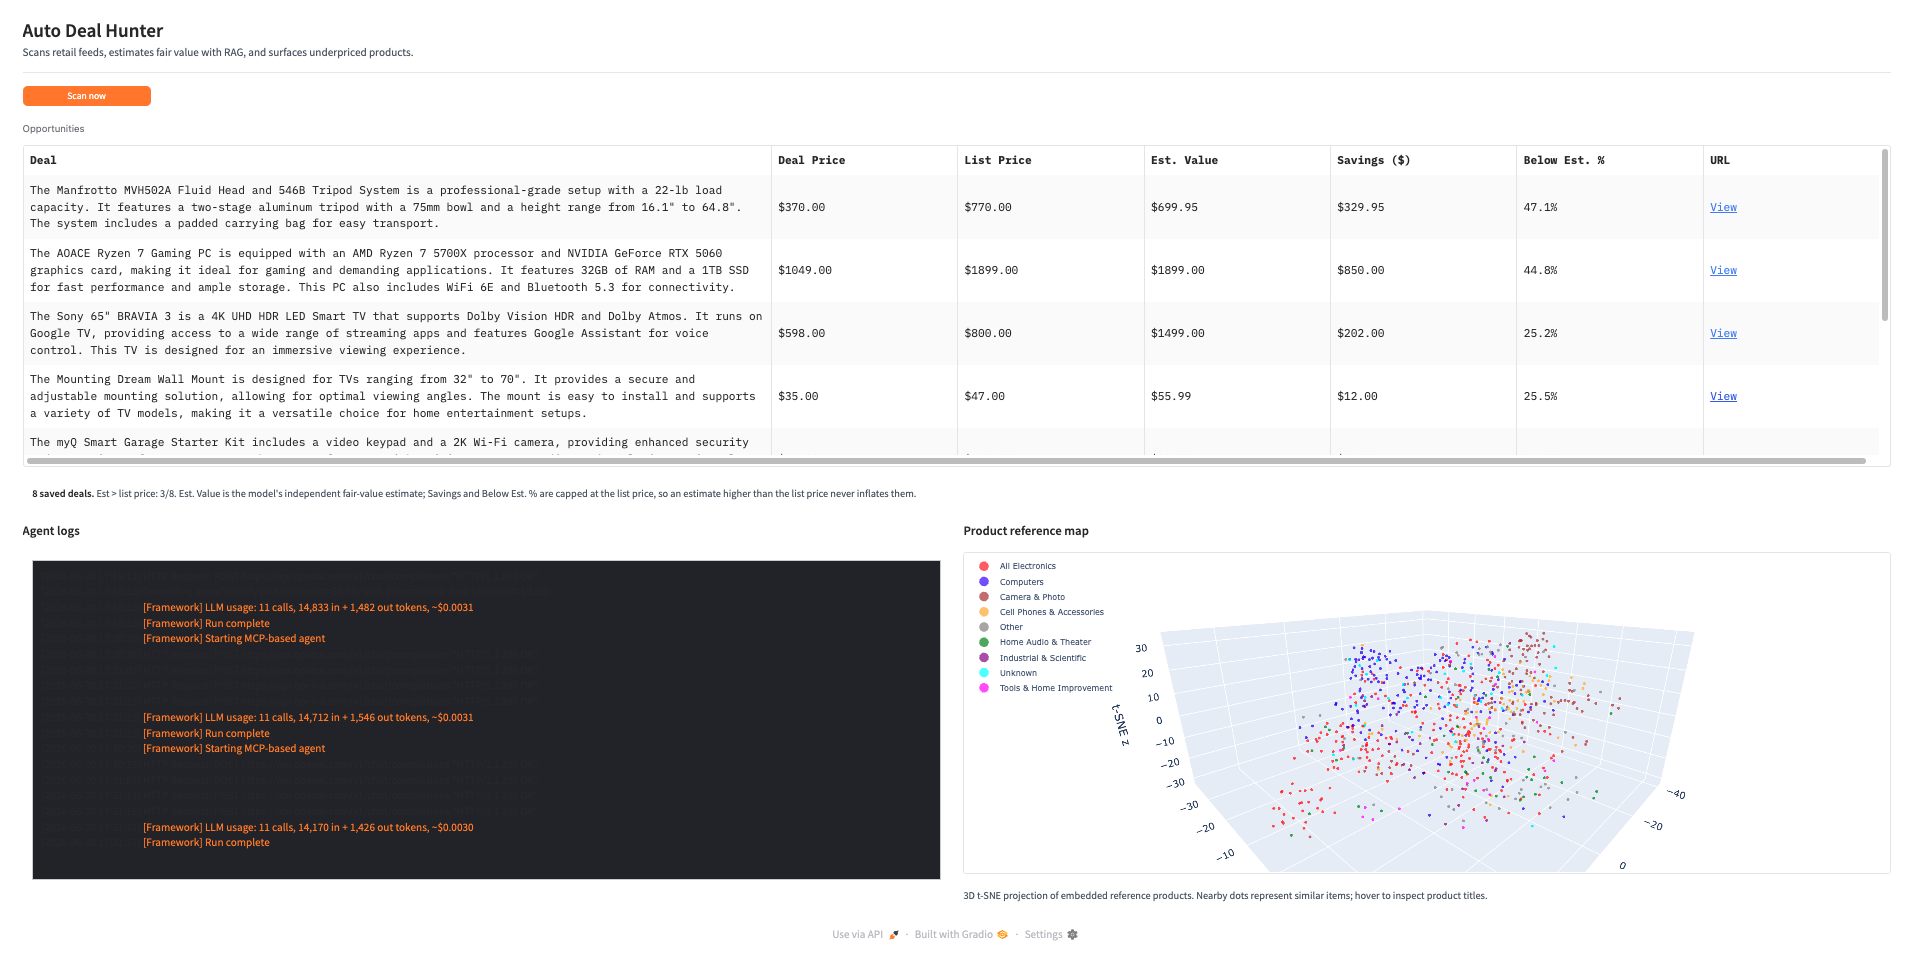
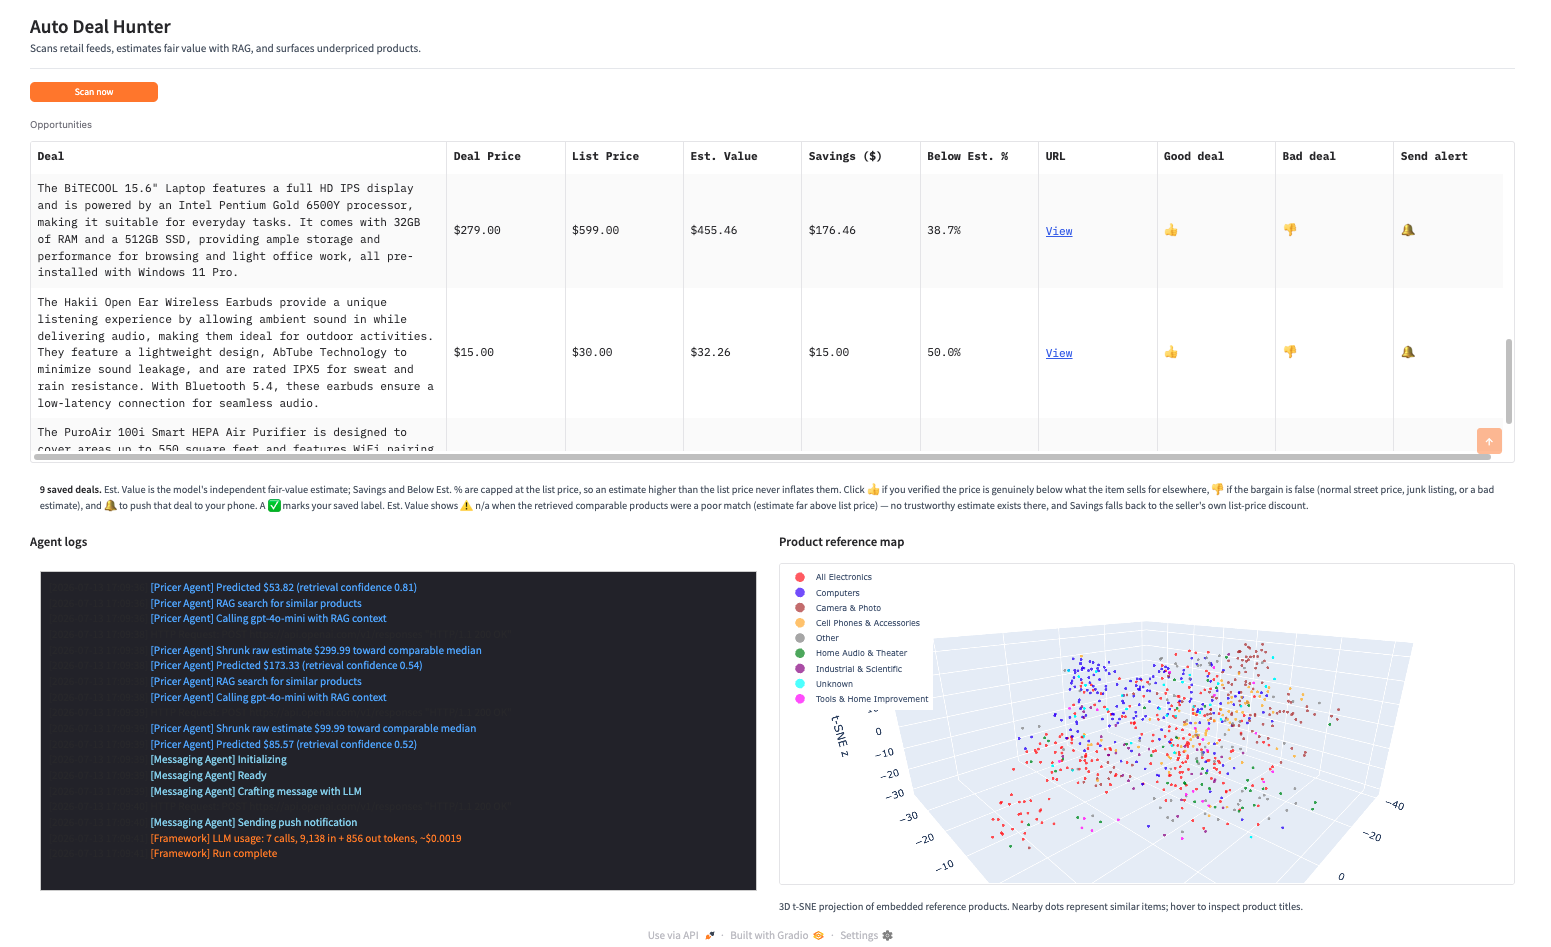
docs(readme): polish README, drop QUALITY.md, refresh demo screenshot
QUALITY.md's checklist is fully implemented (see the harden commit); drop
it rather than let a one-time review doc go stale.

diff --git a/README.md b/README.md
@@ -1,12 +1,20 @@
 # Auto Deal Hunter
 
-Auto Deal Hunter is a Python app that scans retail deal feeds, estimates a product's market value via **RAG** over an independent Amazon reference set, and surfaces deals whose current price appears meaningfully below that estimate. Its scan/estimate/notify capabilities are also exposed as MCP tools for reuse by any MCP client.
+Auto Deal Hunter watches retail deal feeds, estimates whether each product is actually underpriced, and surfaces the best opportunities in a local dashboard with optional phone notifications.
+
+Under the hood, it uses **RAG** over an independent Amazon reference set for fair-value estimates, applies deterministic scoring and list-price guardrails to reduce false bargains, and exposes scan/estimate/notify capabilities as MCP tools for reuse by MCP clients.
 
 ## Demo
 
+Gradio dashboard:
+
 ![Gradio demo](docs/assets/gradio-demo.png)
 
-The Gradio app shows saved opportunities, live agent logs, and a 3D projection of the embedded product reference library.
+Telegram notification:
+
+![Telegram deal notification](docs/assets/telegram-notification-demo.jpg)
+
+The Gradio app shows saved opportunities, live agent logs, and a 3D projection of the embedded product reference library. Telegram notifications deliver the selected deal to your phone.
 
 ## Features
 
@@ -15,7 +23,7 @@ The Gradio app shows saved opportunities, live agent logs, and a 3D projection o
 - **Cost-aware** — Logs LLM token usage and an estimated dollar cost per run.
 - **Guardrail** — Caps reported savings at the seller's list price when a list price is available, reducing false bargains from high model estimates.
 - **Identity-aware** — Detects multi-packs, bundles, and subscriptions so a listing isn't mis-valued against single-unit comparables: multi-packs are rebased to a per-unit price (on both the deal and its comparables), while bundles and subscriptions are skipped.
-- **Notify** — Sends optional Pushover notifications for compelling deals. Estimates built on a
+- **Notify** — Sends optional Telegram (or legacy Pushover) notifications for compelling deals. Estimates built on a
   weak RAG match (no close comparable in the vector store) fall below `RAG_MIN_CONFIDENCE` and are
   still saved but held back from notification, cutting false bargains at the source.
 - **Gradio UI** — Displays the opportunity table, guardrail summary, logs, and a 3D t-SNE map of the vector store.
@@ -26,7 +34,7 @@ The Gradio app shows saved opportunities, live agent logs, and a 3D projection o
 - OpenAI API key for the agent loop and price estimator (or an OpenAI-compatible endpoint — see
   [`OPENAI_BASE_URL`](#environment-variables))
 - [Hugging Face](https://huggingface.co/) access for downloading the McAuley-Lab dataset
-- Optional: Pushover user/app tokens for push notifications
+- Optional: Telegram bot token/chat id for push notifications
 
 ## Installation
 
@@ -36,11 +44,6 @@ source .venv/bin/activate  # On Windows: .venv\Scripts\activate
 pip install -e .
 ```
 
-Installing the project (`pip install -e .`) puts the package tree (`app`, `agents`, `domain`,
-`ingest`, `core`, `infra`, `evaluation`, `scripts`) on the import path. The MCP client also
-passes the project root to the spawned MCP server process so its package imports resolve the
-same way when scans run from the Gradio UI.
-
 ## Configuration
 
 Copy `.env.example` to `.env` and fill in your values:
@@ -49,7 +52,7 @@ Copy `.env.example` to `.env` and fill in your values:
 cp .env.example .env   # Windows: copy .env.example .env
 ```
 
-Required: `OPENAI_API_KEY`. Set `HF_TOKEN` if Hugging Face requires authentication for the dataset download. Optional: `PUSHOVER_USER`/`PUSHOVER_TOKEN` for push notifications. See [Environment Variables](#environment-variables) for the full list.
+Required: `OPENAI_API_KEY`. Set `HF_TOKEN` if Hugging Face requires authentication for the dataset download. Optional: `TELEGRAM_BOT_TOKEN`/`TELEGRAM_CHAT_ID` for push notifications. See [Environment Variables](#environment-variables) for the full list.
 
 ## Quick Start
 
@@ -59,13 +62,15 @@ Build this once before running the agent. The script downloads the Electronics c
 [McAuley-Lab/Amazon-Reviews-2023](https://huggingface.co/datasets/McAuley-Lab/Amazon-Reviews-2023)
 for RAG-based price estimation.
 
-For a faster first run, build a smaller local store:
+For a faster first run, use the smaller local store below. It still downloads the dataset, but
+keeps the initial build short enough to validate the app before spending time and disk on the
+default 50,000-item store:
 
 ```bash
 MCAULEY_MAX_ITEMS=1000 EVAL_HOLDOUT_SIZE=50 python scripts/build_vector_store.py
 ```
 
-For the default larger store:
+For the default larger store, expect a longer network-bound build and more local disk usage:
 
 ```bash
 python scripts/build_vector_store.py
@@ -103,7 +108,7 @@ cp .env.example .env
 docker compose run --rm auto-deal-hunter python scripts/build_vector_store.py
 ```
 
-For a faster first run:
+For a faster Docker first run, build the same smaller validation store:
 
 ```bash
 docker compose run --rm -e MCAULEY_MAX_ITEMS=1000 -e EVAL_HOLDOUT_SIZE=50 auto-deal-hunter python scripts/build_vector_store.py
@@ -120,7 +125,7 @@ Open `http://localhost:7860` after the container starts.
 ## How It Works
 
 ```text
-   DealNews RSS ──▶ ScannerAgent    PricerAgent            MessagingAgent ──▶ Pushover
+   DealNews RSS ──▶ ScannerAgent    PricerAgent            MessagingAgent ──▶ Telegram
                     (filter + LLM   (RAG: ChromaDB +        (LLM-crafted
                      selection)      LLM estimate)           message)
                           │               │                     ▲
@@ -158,6 +163,11 @@ path's incidental complexity (spawning a subprocess, injecting `PYTHONPATH`, mer
 usage across the process boundary, and re-pairing tool-call arguments to scanned deals) for a
 flow whose outcome is deterministic either way.
 
+Installing the project with `pip install -e .` keeps the package tree (`app`, `agents`, `domain`,
+`ingest`, `core`, `infra`, `evaluation`, `scripts`) importable from both the direct pipeline and
+the spawned MCP server process, so scans behave the same whether they run in-process or through
+the MCP demonstration path.
+
 ## Estimate quality guardrail
 
 The opportunity table reports savings as `min(estimate, list_price) - deal_price` when a list
@@ -182,7 +192,7 @@ excluded from the vector store, so they measure generalization rather than exact
 ### Pricer (end-to-end)
 
 ```bash
-python scripts/eval_pricers.py --size 200
+python -m scripts.eval_pricers --size 200
 ```
 
 Runs `PricerAgent` (RAG + LLM) against the holdout, scoring each estimate against the item's
@@ -190,7 +200,7 @@ known price. To save aggregate metrics and fail the command when quality drifts 
 (useful in CI):
 
 ```bash
-python scripts/eval_pricers.py --size 200 --output-json data/eval_metrics.json --max-mae 150 --max-abs-bias 50 --max-over-rate 0.65
+python -m scripts.eval_pricers --size 200 --output-json data/eval_metrics.json --max-mae 150 --max-abs-bias 50 --max-over-rate 0.65
 ```
 
 The command prints aggregate accuracy metrics plus the run's LLM token cost:
@@ -217,19 +227,31 @@ End-to-end price error blends two failure modes: a bad retriever (wrong neighbor
 (wrong reasoning over good neighbors). To isolate the retriever — no LLM calls, near-free — run:
 
 ```bash
-python scripts/eval_retrieval.py --size 200 --k 5
+python -m scripts.eval_retrieval --size 200 --k 5
 ```
 
 The command prints per-k retrieval metrics:
 
 ```text
-category_precision@5: <pct>%   hit_rate@5: <pct>%   price_MAPE@5: <pct>%   n=<count>
+category_precision@5: <pct>%   hit_rate@5: <pct>%   price_medianAPE@5: <pct>%   (meanAPE: <pct>%)   n=<count>
 ```
 
 It scores `category_precision@k` (are the neighbors the right category?), `hit_rate@k` (at least
-one same-category neighbor?), and `price_MAPE@k` (how close the median neighbor price is to the
-true price). Use this to tell whether a high pricer MAE is a retrieval problem or a reasoning
-problem before tuning either side.
+one same-category neighbor?), `price_medianAPE@k` (the median percentage error of neighbor-price
+estimates), and `meanAPE` (the mean percentage error, which is more sensitive to long-tail misses).
+Use this to tell whether a high pricer MAE is a retrieval problem or a reasoning problem before
+tuning either side.
+
+Example local run, using the current `data/eval_holdout.json` and vector store:
+
+```text
+python -m scripts.eval_retrieval --size 200 --k 5
+category_precision@5: 57%   hit_rate@5: 86%   price_medianAPE@5: 30%   (meanAPE: 85%)   n=200
+```
+
+The high hit rate means most held-out items retrieve at least one same-category neighbor, while
+the lower category precision and high mean absolute percentage error show why the app treats this
+as a screening/ranking signal rather than a pricing oracle.
 
 ### Reproducibility
 
@@ -243,7 +265,7 @@ Run the test suite (unit tests for the scrapers, agents, MCP hand-off, determini
 cost tracker, and eval metrics):
 
 ```bash
-python -m unittest discover -s tests
+python -m pytest
 ```
 
 Lint with `ruff check .`. Tests run offline — network, OpenAI, and Sentence-Transformers calls
@@ -300,7 +322,7 @@ auto-deal-hunter/
 │   └── paths.py           # Shared runtime/data paths
 ├── evaluation/            # Importable, tested eval metrics
 │   ├── pricer.py          # MAE / bias / over-prediction
-│   └── retrieval.py       # category_precision@k / hit_rate@k / price_MAPE@k
+│   └── retrieval.py       # category_precision@k / hit_rate@k / price_medianAPE@k
 ├── scripts/               # Thin CLI wrappers
 │   ├── audit_identity.py   # Identity-rule audit over live scraped deals
 │   ├── build_vector_store.py
@@ -318,8 +340,10 @@ auto-deal-hunter/
 | `OPENAI_API_KEY` | API key for the MCP agent loop and RAG estimator (OpenAI, or the configured OpenAI-compatible endpoint) |
 | `OPENAI_BASE_URL` | Optional. Point the OpenAI client at an OpenAI-compatible Chat Completions endpoint. The endpoint must support the features this app uses, especially tool calling; structured-output and `seed` behavior vary by backend |
 | `HF_TOKEN` | Optional Hugging Face API token, used when dataset access or rate limits require authentication |
-| `PUSHOVER_USER` | Pushover user key (for push notifications) |
-| `PUSHOVER_TOKEN` | Pushover app token |
+| `TELEGRAM_BOT_TOKEN` | Optional Telegram bot token for push notifications. Create one with BotFather |
+| `TELEGRAM_CHAT_ID` | Optional Telegram chat id that receives deal notifications |
+| `PUSHOVER_USER` | Optional legacy Pushover user key, used only if Telegram is not configured |
+| `PUSHOVER_TOKEN` | Optional legacy Pushover app token, used only if Telegram is not configured |
 | **Model & runtime config** | |
 | `SCAN_MODE` | `direct` (default) runs the scan pipeline in-process; `agent` drives the MCP tool server through an LLM tool-calling loop (demo of MCP orchestration). Both select the same deterministic best deal |
 | `LLM_MODEL` | Chat model used by every agent, served by the configured OpenAI-compatible endpoint (default: `gpt-4o-mini`) |
@@ -338,6 +362,12 @@ auto-deal-hunter/
 | `MCAULEY_MAX_ITEMS` | Cap on items embedded into the vector store (default: `50000`) |
 | `EVAL_HOLDOUT_SIZE` | Items held out for `eval_pricers.py` (default: `500`) |
 | `EVAL_HOLDOUT_PATH` | Holdout sample path used by `eval_pricers.py` (default: `data/eval_holdout.json`) |
+
+Telegram setup:
+
+1. Message `@BotFather` in Telegram, create a bot, and copy its token into `TELEGRAM_BOT_TOKEN`.
+2. Send any message to your new bot.
+3. Open `https://api.telegram.org/bot<TELEGRAM_BOT_TOKEN>/getUpdates` and copy the `message.chat.id` value into `TELEGRAM_CHAT_ID`.
 
 ## Limitations
 
